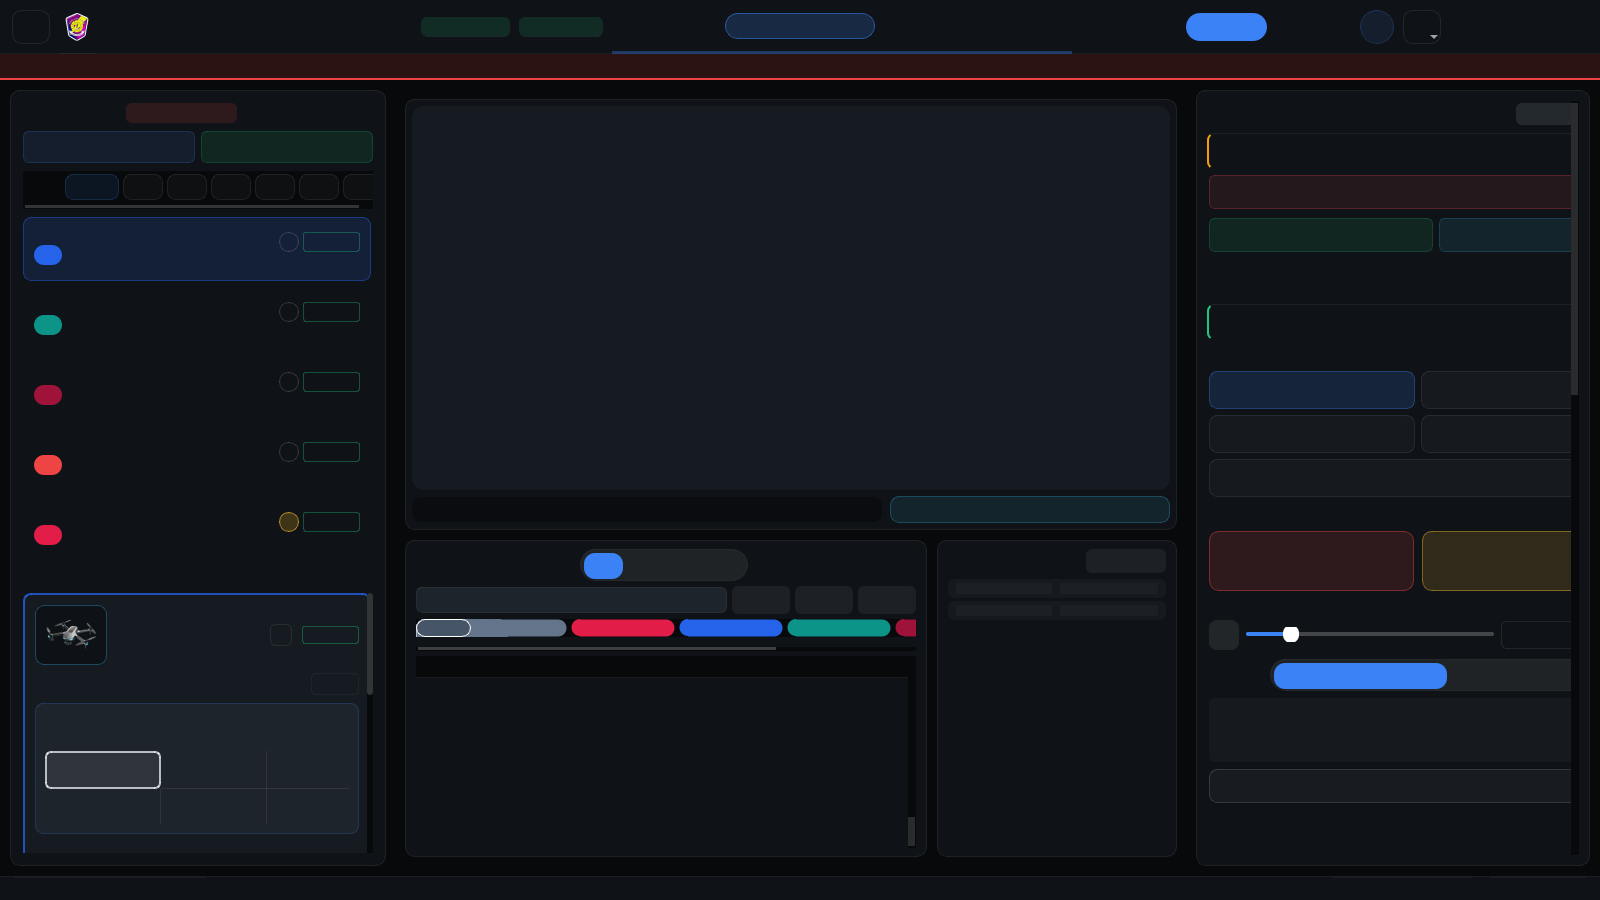
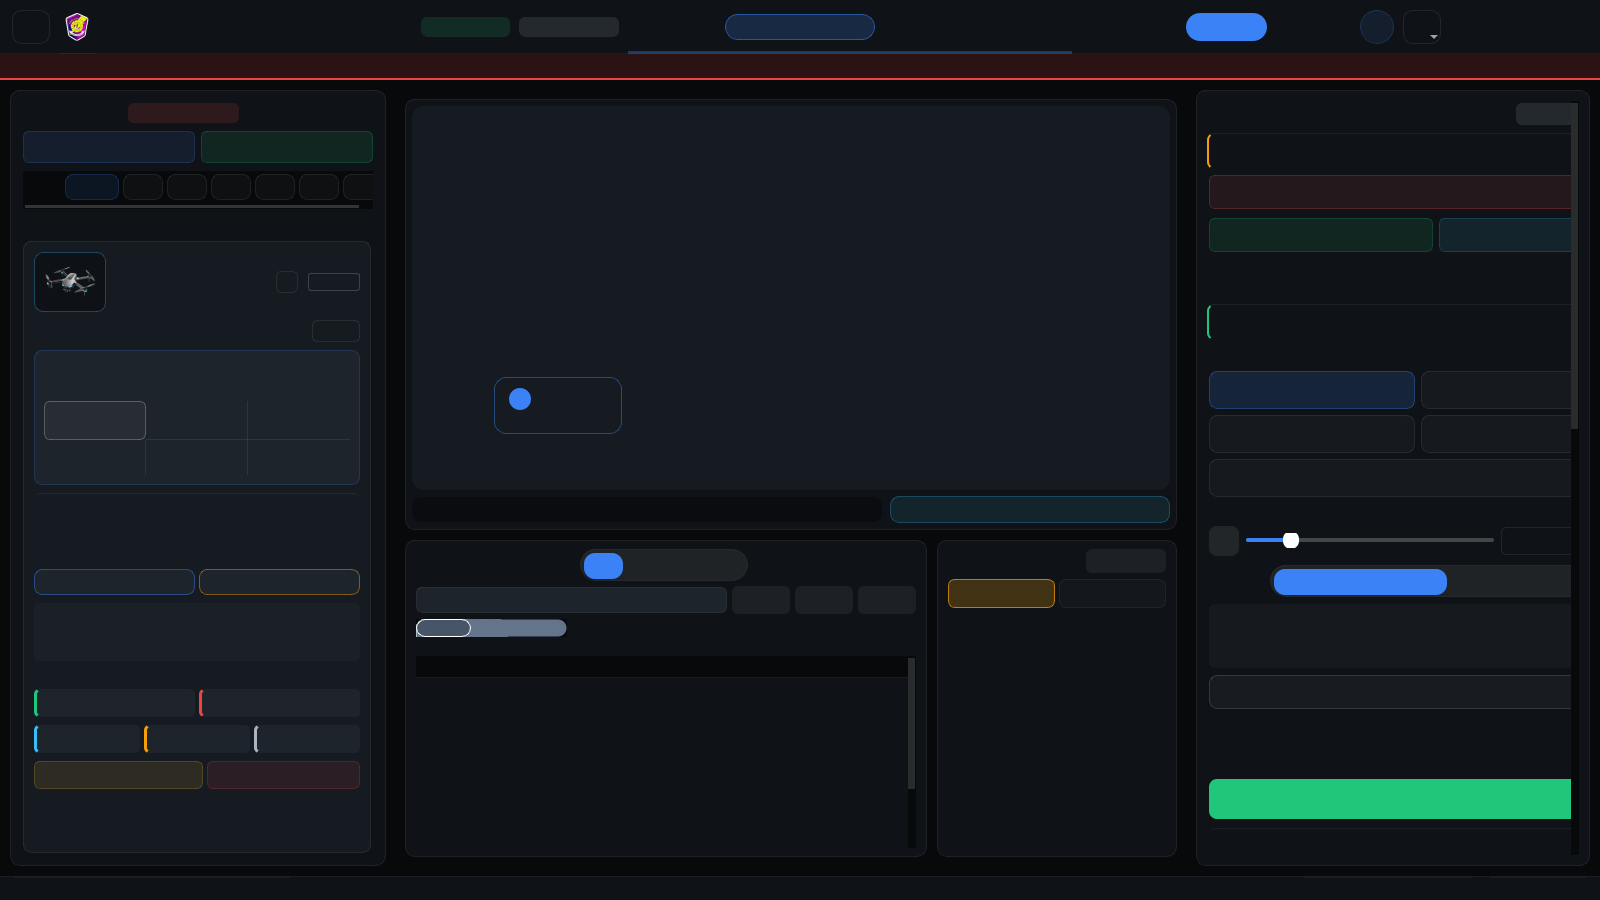
Add cockpit UI preview

diff --git a/docs/cockpit_actual.html b/docs/cockpit_actual.html
@@ -1,0 +1,25 @@
+<!doctype html>
+<html lang="th">
+<head>
+  <meta charset="utf-8" />
+  <meta name="viewport" content="width=device-width, initial-scale=1" />
+  <title>DroneGod_AI UI Preview</title>
+  <style>
+    html, body { margin:0; padding:0; background:#0b0f14; color:#fff; font-family:system-ui,-apple-system,Segoe UI,sans-serif; }
+    .wrap { padding:12px; }
+    h1 { font-size:18px; margin:0 0 10px; }
+    .card { background:#111820; border:1px solid #263241; border-radius:14px; padding:10px; overflow:auto; }
+    img { display:block; width:100%; height:auto; border-radius:10px; }
+    .meta { margin-top:8px; font-size:13px; color:#9fb0c3; }
+  </style>
+</head>
+<body>
+  <div class="wrap">
+    <h1>DroneGod_AI — Cockpit UI Preview</h1>
+    <div class="card">
+      <img src="cockpit_actual.png" alt="DroneGod_AI Cockpit Screenshot" />
+      <div class="meta">Screenshot: 1600×900</div>
+    </div>
+  </div>
+</body>
+</html>
